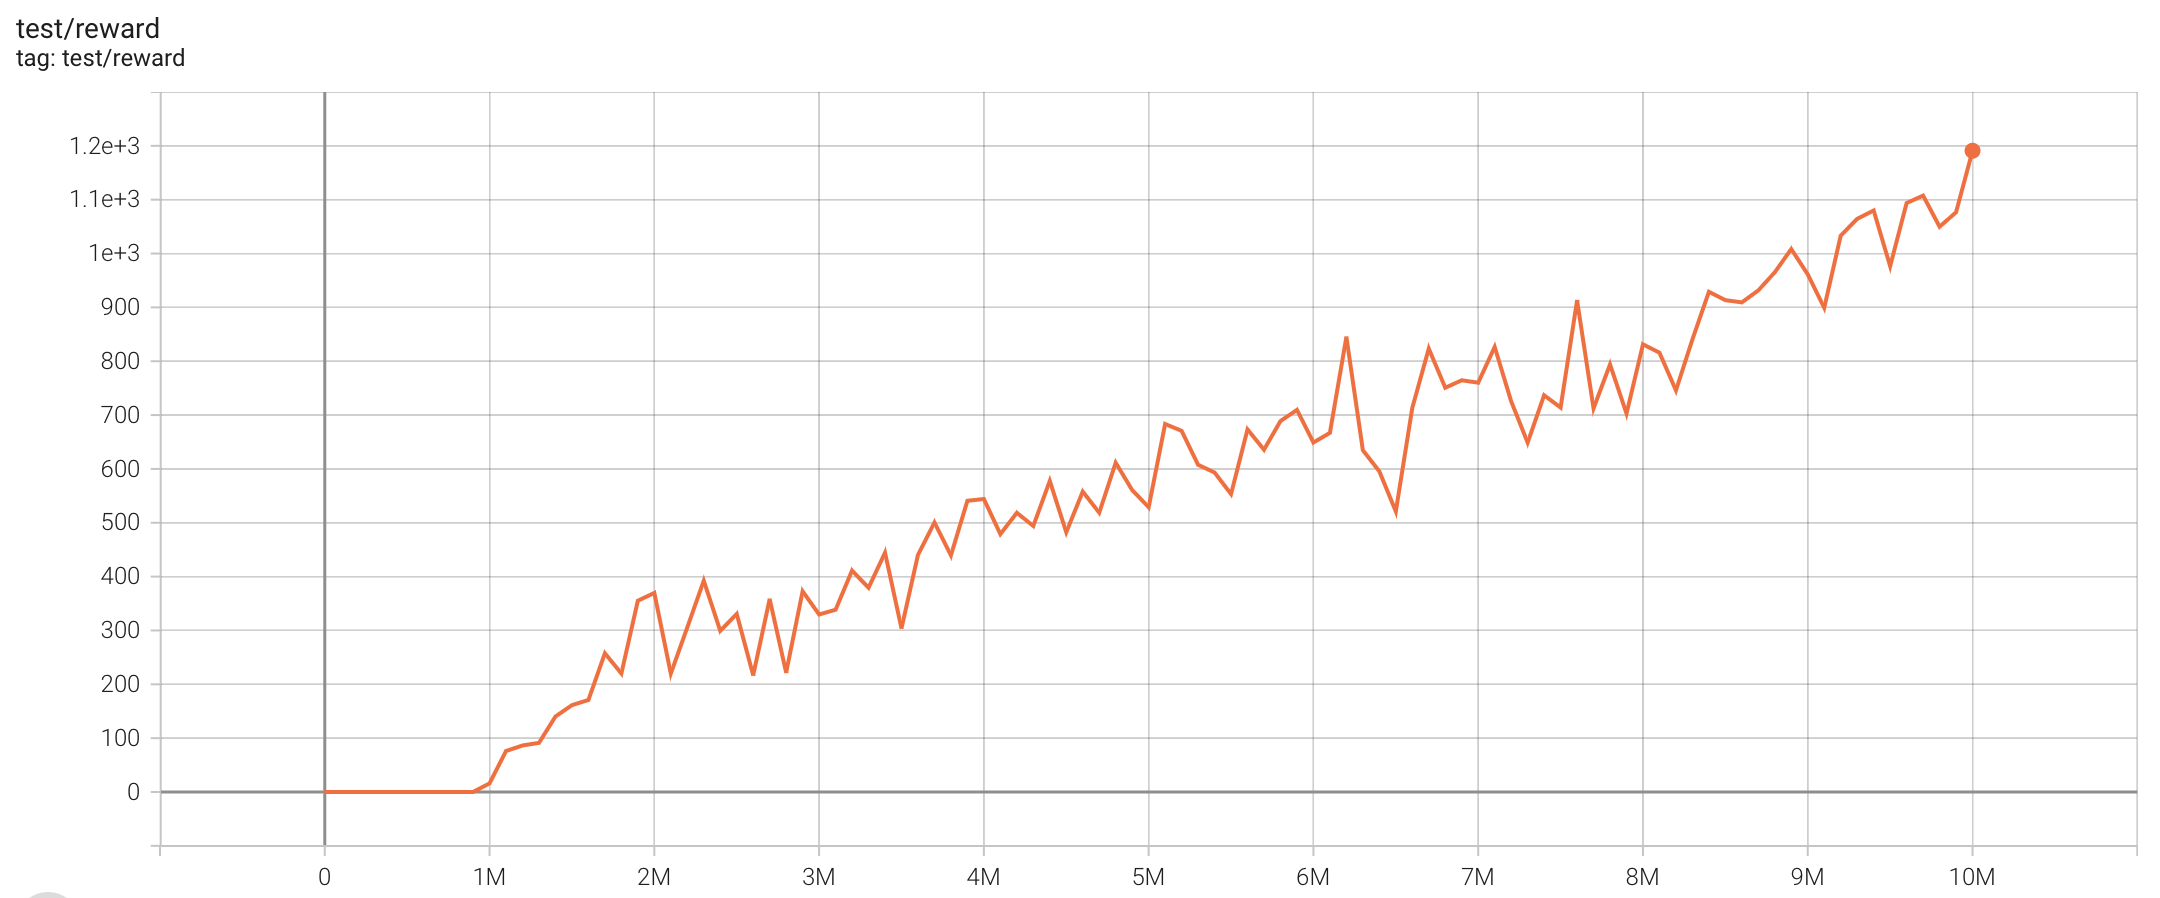
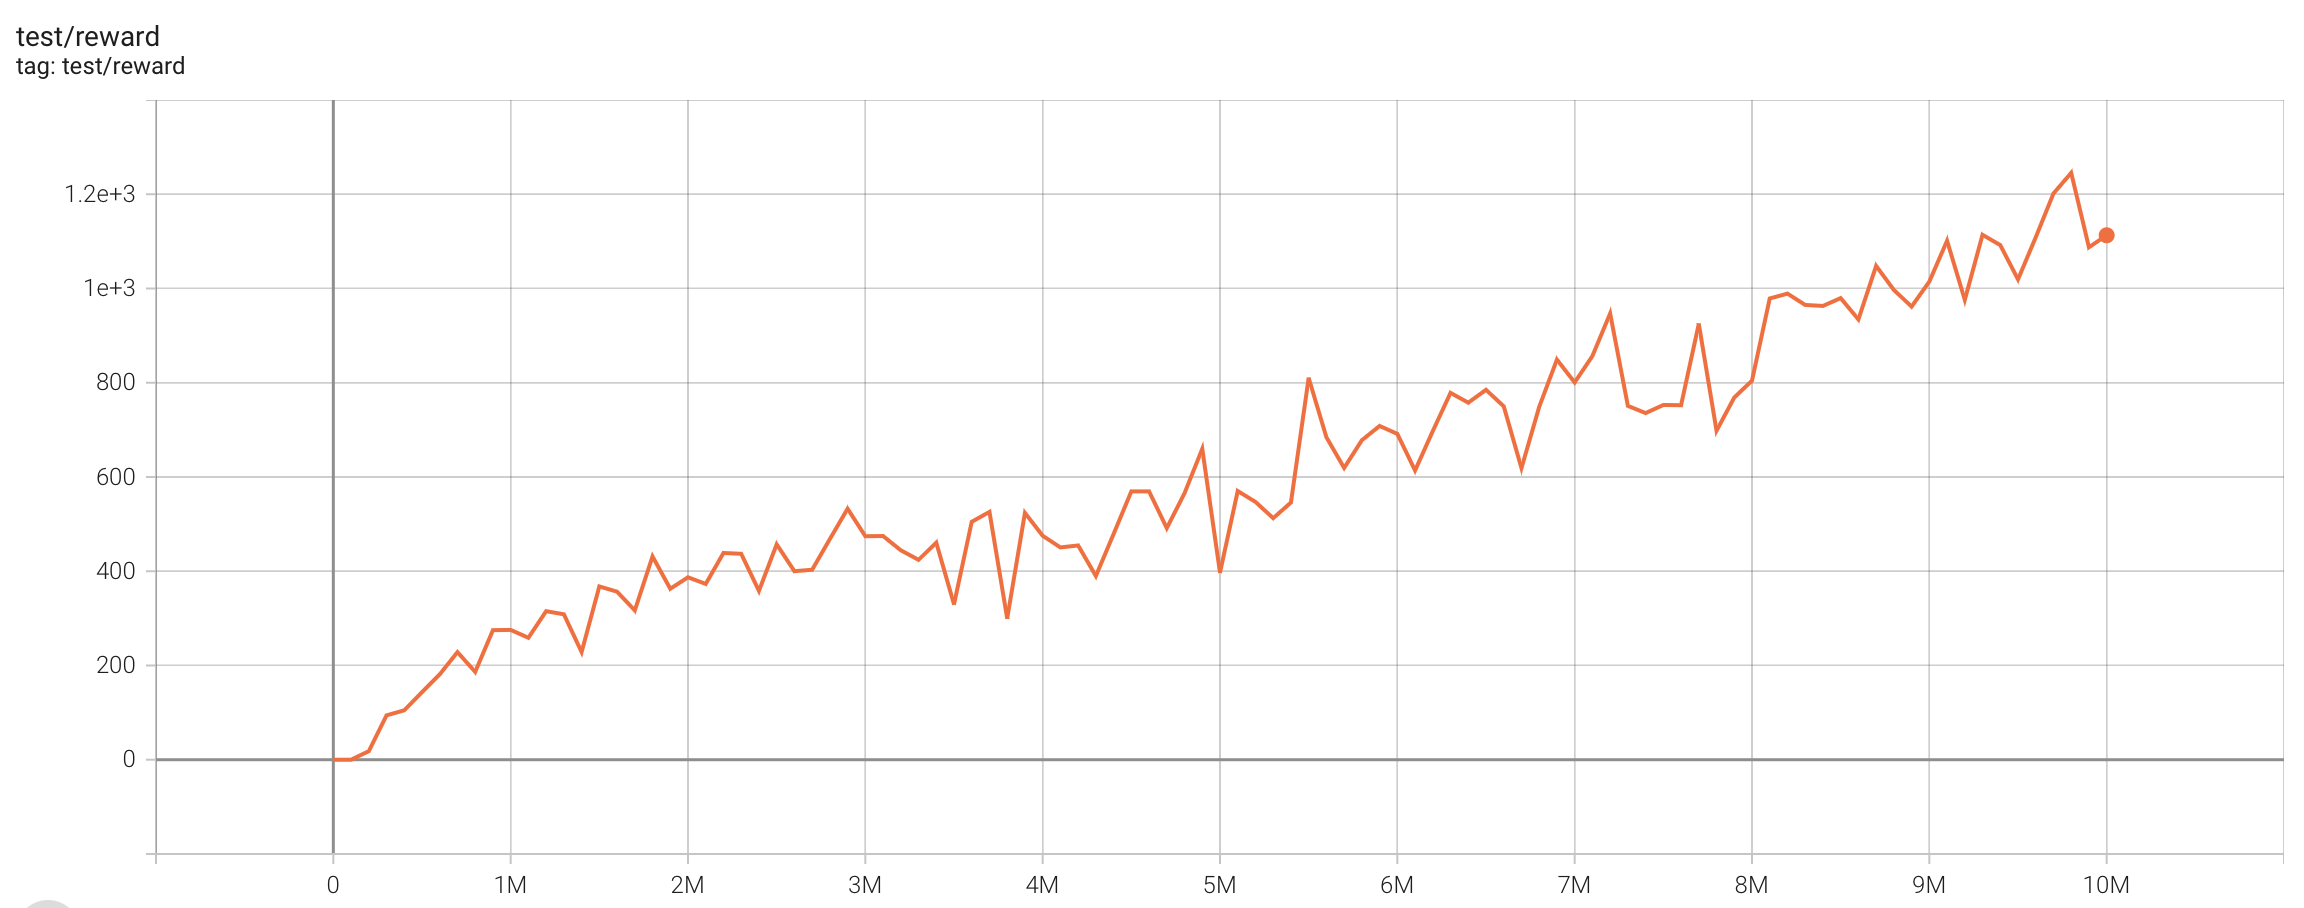
update results

diff --git a/examples/atari/atari_ppo.py b/examples/atari/atari_ppo.py
@@ -21,7 +21,7 @@ from tianshou.utils.net.discrete import Actor, Critic, IntrinsicCuriosityModule
 def get_args():
     parser = argparse.ArgumentParser()
     parser.add_argument("--task", type=str, default="PongNoFrameskip-v4")
-    parser.add_argument("--seed", type=int, default=42)
+    parser.add_argument("--seed", type=int, default=4213)
     parser.add_argument("--scale-obs", type=int, default=1)
     parser.add_argument("--buffer-size", type=int, default=100000)
     parser.add_argument("--lr", type=float, default=2.5e-4)

diff --git a/examples/atari/README.md b/examples/atari/README.md
@@ -115,12 +115,12 @@ One epoch here is equal to 100,000 env step, 100 epochs stand for 10M.
 | task                        | best reward | reward curve                          | parameters                                                   |
 | --------------------------- | ----------- | ------------------------------------- | ------------------------------------------------------------ |
 | PongNoFrameskip-v4          | 20.2        | ![](results/ppo/Pong_rew.png)         | `python3 atari_ppo.py --task "PongNoFrameskip-v4"` |
-| BreakoutNoFrameskip-v4      | 413.7        | ![](results/ppo/Breakout_rew.png)     | `python3 atari_ppo.py --task "BreakoutNoFrameskip-v4"` |
-| EnduroNoFrameskip-v4        | 1190.9       | ![](results/ppo/Enduro_rew.png)       | `python3 atari_ppo.py --task "EnduroNoFrameskip-v4"`  |
-| QbertNoFrameskip-v4         | 16875      | ![](results/ppo/Qbert_rew.png)        | `python3 atari_ppo.py --task "QbertNoFrameskip-v4"`  |
-| MsPacmanNoFrameskip-v4      | 2128       | ![](results/ppo/MsPacman_rew.png)     | `python3 atari_ppo.py --task "MsPacmanNoFrameskip-v4"`  |
-| SeaquestNoFrameskip-v4      | 894      | ![](results/ppo/Seaquest_rew.png)     | `python3 atari_ppo.py --task "SeaquestNoFrameskip-v4" --lr 1e-4`  |
-| SpaceInvadersNoFrameskip-v4 | 1544.5       | ![](results/ppo/SpaceInvaders_rew.png) | `python3 atari_ppo.py --task "SpaceInvadersNoFrameskip-v4"`  |
+| BreakoutNoFrameskip-v4      | 441.8        | ![](results/ppo/Breakout_rew.png)     | `python3 atari_ppo.py --task "BreakoutNoFrameskip-v4"` |
+| EnduroNoFrameskip-v4        | 1245.4       | ![](results/ppo/Enduro_rew.png)       | `python3 atari_ppo.py --task "EnduroNoFrameskip-v4"`  |
+| QbertNoFrameskip-v4         | 17395      | ![](results/ppo/Qbert_rew.png)        | `python3 atari_ppo.py --task "QbertNoFrameskip-v4"`  |
+| MsPacmanNoFrameskip-v4      | 2098       | ![](results/ppo/MsPacman_rew.png)     | `python3 atari_ppo.py --task "MsPacmanNoFrameskip-v4"`  |
+| SeaquestNoFrameskip-v4      | 882      | ![](results/ppo/Seaquest_rew.png)     | `python3 atari_ppo.py --task "SeaquestNoFrameskip-v4" --lr 1e-4`  |
+| SpaceInvadersNoFrameskip-v4 | 1340.5       | ![](results/ppo/SpaceInvaders_rew.png) | `python3 atari_ppo.py --task "SpaceInvadersNoFrameskip-v4"`  |
 
 # SAC (single run)
 
